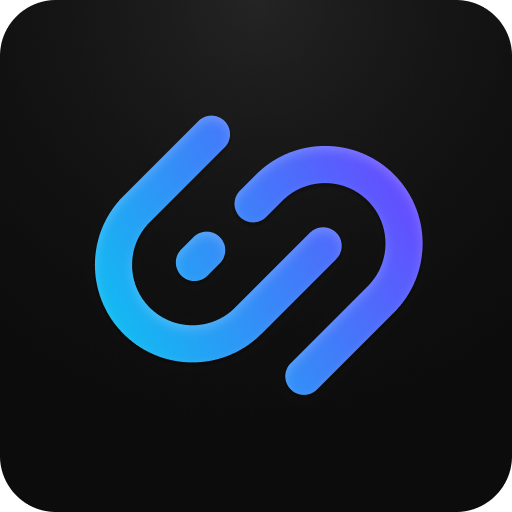
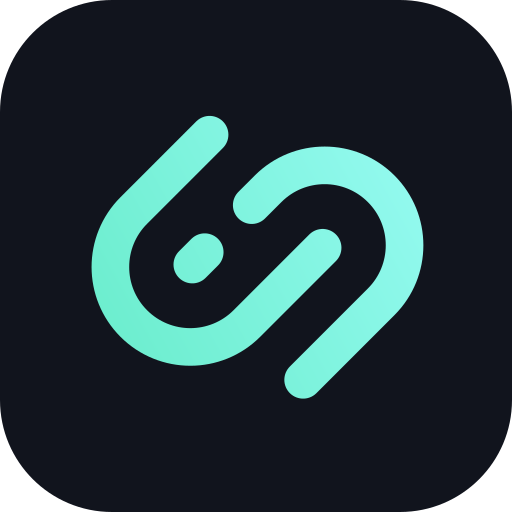
fix: refine branding scale and colors

diff --git a/pages/_document.tsx b/pages/_document.tsx
@@ -16,7 +16,14 @@ class MyDocument extends Document {
         <Head nonce={nonce}>
           {/* PWA primary color */}
           <meta content={dark.palette.primary.main} name="theme-color" />
-          <link href="/favicon.ico" rel="icon" />
+          <link href="/favicon.svg" rel="icon" type="image/svg+xml" />
+          <link
+            href="/favicon-32x32.png"
+            rel="icon"
+            sizes="32x32"
+            type="image/png"
+          />
+          <link href="/apple-touch-icon.png" rel="apple-touch-icon" />
           {/* Theme fonts */}
           <link href="https://fonts.gstatic.com" rel="preconnect" />
           <link href="/manifest.webmanifest" rel="manifest" />

diff --git a/components/shared/PoweredByBasisTheory.tsx b/components/shared/PoweredByBasisTheory.tsx
@@ -13,6 +13,7 @@ export const PoweredByBasisTheory = () => {
       <Box
         alignItems="center"
         display="flex"
+        gap={1}
         justifyContent="center"
         sx={{
           opacity: 0.72,
@@ -22,7 +23,13 @@ export const PoweredByBasisTheory = () => {
           },
         }}
       >
-        <Typography mr={1} sx={{ color: '#A0A5B3' }} variant="body3">
+        <Typography
+          sx={{
+            color: '#A0A5B3',
+            whiteSpace: 'nowrap',
+          }}
+          variant="body3"
+        >
           {t('poweredBy.prefix')}
         </Typography>
         <BasisTheoryLogo />

diff --git a/theme/bliss/dark.ts b/theme/bliss/dark.ts
@@ -34,7 +34,7 @@ const options: ThemeOptions = {
       disabled: alpha('#a3b0ec', 0.4),
     },
     action: {
-      active: '#CDF75F',
+      active: '#94FAF0',
       hover: '#181B25',
       selected: alpha('#000000', 0.08),
       selectedOpacity: 0.08, // does not produce desired effect
@@ -42,9 +42,9 @@ const options: ThemeOptions = {
       disabledBackground: '#363636',
     },
     primary: {
-      main: '#CDF75F',
-      dark: '#95B832',
-      light: '#E1FF8A',
+      main: '#94FAF0',
+      dark: '#5CE8C0',
+      light: '#B3F0E8',
       contrastText: defaultContrastText,
     },
     secondary: {

diff --git a/components/shared/SendSecurelyLogoWithName.tsx b/components/shared/SendSecurelyLogoWithName.tsx
@@ -39,8 +39,8 @@ export const SendSecurelyLogoWithName = () => (
             y1="-1.07942"
             y2="29.4308"
           >
-            <stop stopColor="#CDF75F" />
-            <stop offset="1" stopColor="#07CEE0" />
+            <stop stopColor="#94FAF0" />
+            <stop offset="1" stopColor="#5CE8C0" />
           </linearGradient>
         </defs>
       </svg>

diff --git a/components/shared/SendSecurelyLogo.tsx b/components/shared/SendSecurelyLogo.tsx
@@ -24,8 +24,8 @@ export const SendSecurelyLogo = () => (
         y1="-2.07942"
         y2="28.4308"
       >
-        <stop stopColor="#CDF75F" />
-        <stop offset="1" stopColor="#07CEE0" />
+        <stop stopColor="#94FAF0" />
+        <stop offset="1" stopColor="#5CE8C0" />
       </linearGradient>
     </defs>
   </svg>

diff --git a/theme/bliss/base.tsx b/theme/bliss/base.tsx
@@ -141,7 +141,7 @@ export const baseThemeOptions: ThemeOptions = {
     MuiButton: {
       styleOverrides: {
         root: {
-          borderRadius: '999px',
+          borderRadius: '16px',
         },
         outlined: {
           borderWidth: '2px !important', // only way to override for all sub styles and keep consistency

diff --git a/components/shared/BasisTheoryLogo.tsx b/components/shared/BasisTheoryLogo.tsx
@@ -5,8 +5,11 @@ export const BasisTheoryLogo = () => (
   <Box
     alt="Basis Theory"
     component="img"
-    height="22"
     src="/basis-theory-logo-white.svg"
-    width="104"
+    sx={{
+      display: 'block',
+      height: '18px',
+      width: '85px',
+    }}
   />
 );

diff --git a/components/pages/CreateSecret.tsx b/components/pages/CreateSecret.tsx
@@ -30,9 +30,9 @@ export const CreateSecret = (props: Props) => {
         </Box>
         <Box
           mb={{
-            xs: 8,
+            xs: 6,
             sm: 8,
-            md: 15,
+            md: 10,
           }}
           mt={1}
         >
